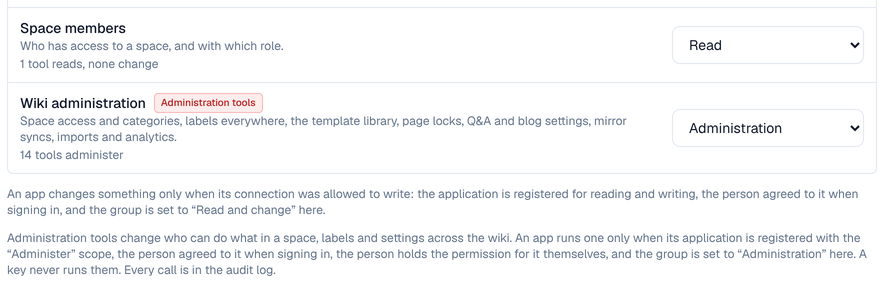
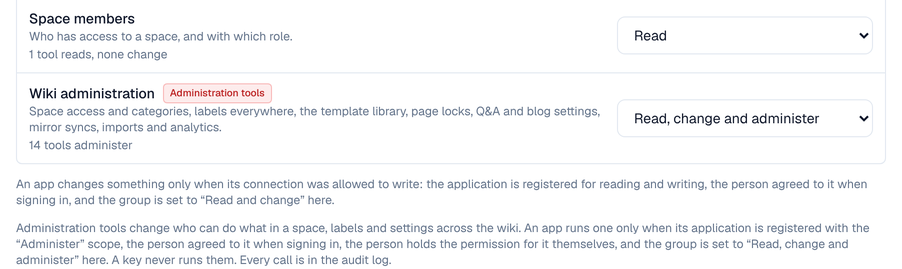
wiki: Kee Search tab screenshot; outside-apps level shot with Read, change and administer
Claude-Session: https://claude.ai/code/session_015HRwaZicr5Z4imXgX9wziz

diff --git a/wiki/admin/kee-outside-apps.html b/wiki/admin/kee-outside-apps.html
@@ -80,16 +80,16 @@
       <ul class="text-muted mb-4 space-y-2 list-disc pl-6"><li>The licence is <strong class="text-text">Enterprise</strong>. Below it, the level isn't offered and the tab says so.</li><li>An administrator set the <strong class="text-text">Wiki administration</strong> group to <strong class="text-text">Read, change and administer</strong> on this tab and confirmed that choice in its own dialog.</li><li>The AI app's application is registered with the <strong class="text-text">Administer</strong> scope, and the person agreed to it when signing in. The sign-in screen lists it apart, under a warning.</li><li>The connection signed in through the browser. A key never runs these tools, whatever it may do otherwise.</li><li>The person holds the permission for that change themselves (a space admin for a space's access, a Q&amp;A moderator for tags, and so on). An app can never do more than the person could do by hand.</li></ul>
       <ol class="text-muted mb-4 space-y-3 list-decimal pl-6 marker:text-cta marker:font-semibold"><li class="pl-2"><span class="text-text font-medium">Open <strong class="text-text">Settings → Kee</strong> and the <strong class="text-text">Outside AI apps</strong> tab.</span></li><li class="pl-2"><span class="text-text font-medium">Under <strong class="text-text">What apps may do</strong>, find <strong class="text-text">Wiki administration</strong> (marked <strong class="text-text">Administration tools</strong>) and set it to <strong class="text-text">Read, change and administer</strong>.</span></li><li class="pl-2"><span class="text-text font-medium">Read the dialog <strong class="text-text">Allow administration tools?</strong> and select <strong class="text-text">Allow administration</strong>. <strong class="text-text">Cancel</strong> leaves it off.</span></li><li class="pl-2"><span class="text-text font-medium">Register the AI app under <strong class="text-text">Settings → Access management → Applications</strong> with the <strong class="text-text">Administer</strong> scope (see <a href="#register-an-ai-app" class="text-cta hover:underline">Register an AI app</a>). People who sign in to it are asked to agree.</span></li></ol>
       <figure class="shot mb-6">
-        <img src="../assets/kee-outside-apps-admin-level.png" alt="What apps may do: Space members set to Read, and Wiki administration with its Administration tools badge set to Administration, with the note on what an app needs" loading="lazy"
+        <img src="../assets/kee-outside-apps-admin-level.png" alt="What apps may do: Space members set to Read, and Wiki administration with its Administration tools badge set to Read, change and administer, with the note on what an app needs" loading="lazy"
              class="rounded-lg border border-border"
              onerror="this.style.display='none';this.nextElementSibling.style.display='flex'">
         <div style="display:none" class="flex-col items-center justify-center text-center gap-2 rounded-lg border-2 border-dashed border-border bg-surface/50 px-6 py-10">
           <svg class="w-7 h-7 text-muted" fill="none" viewBox="0 0 24 24" stroke="currentColor" stroke-width="1.5"><rect x="3" y="3" width="18" height="18" rx="2"/><circle cx="8.5" cy="8.5" r="1.5"/><path d="m21 15-5-5L5 21"/></svg>
           <p class="text-sm text-muted">Screenshot needed</p>
           <p class="font-mono text-xs text-cta break-all">kee-outside-apps-admin-level.png</p>
-          <p class="text-xs text-muted max-w-md">What apps may do: Space members set to Read, and Wiki administration with its Administration tools badge set to Administration, with the note on what an app needs</p>
+          <p class="text-xs text-muted max-w-md">What apps may do: Space members set to Read, and Wiki administration with its Administration tools badge set to Read, change and administer, with the note on what an app needs</p>
         </div>
-        <figcaption class="text-xs text-muted mt-2">What apps may do: Space members set to Read, and Wiki administration with its Administration tools badge set to Administration, with the note on what an app needs</figcaption>
+        <figcaption class="text-xs text-muted mt-2">What apps may do: Space members set to Read, and Wiki administration with its Administration tools badge set to Read, change and administer, with the note on what an app needs</figcaption>
       </figure>
       <figure class="shot mb-6">
         <img src="../assets/kee-outside-apps-admin-confirm.png" alt="Allow administration tools?: the 14 tools, the warning that an app can then make these changes at once under the person&#x27;s name, and Allow administration" loading="lazy"

diff --git a/wiki/admin/kee-search.html b/wiki/admin/kee-search.html
@@ -43,16 +43,16 @@
       <h2 id="where-it-is" class="text-2xl font-semibold mt-10 mb-4 scroll-mt-28">1. Where it is</h2>
       <p class="text-muted mb-4"><strong class="text-text">Settings → Kee → Search</strong> (<strong class="text-text">Manage Kee settings</strong>, Pro). The tab shows the index of page text and, where the database offers it, search by meaning. It reads its numbers when you open it and on <strong class="text-text">Refresh</strong>; it doesn't update by itself.</p>
       <figure class="shot mb-6">
-        <img src="../assets/kee-settings-search.png" alt="Settings → Kee → Search: the index of page text with pages indexed, and search by meaning with its switch, the embeddings model, pages with vectors, tokens and estimated cost" loading="lazy"
+        <img src="../assets/kee-settings-search.png" alt="Settings → Kee → Search on a database server without the vector extension: the index of page text with all pages indexed, and the note that search by meaning needs the extension" loading="lazy"
              class="rounded-lg border border-border"
              onerror="this.style.display='none';this.nextElementSibling.style.display='flex'">
         <div style="display:none" class="flex-col items-center justify-center text-center gap-2 rounded-lg border-2 border-dashed border-border bg-surface/50 px-6 py-10">
           <svg class="w-7 h-7 text-muted" fill="none" viewBox="0 0 24 24" stroke="currentColor" stroke-width="1.5"><rect x="3" y="3" width="18" height="18" rx="2"/><circle cx="8.5" cy="8.5" r="1.5"/><path d="m21 15-5-5L5 21"/></svg>
           <p class="text-sm text-muted">Screenshot needed</p>
           <p class="font-mono text-xs text-cta break-all">kee-settings-search.png</p>
-          <p class="text-xs text-muted max-w-md">Settings → Kee → Search: the index of page text with pages indexed, and search by meaning with its switch, the embeddings model, pages with vectors, tokens and estimated cost</p>
+          <p class="text-xs text-muted max-w-md">Settings → Kee → Search on a database server without the vector extension: the index of page text with all pages indexed, and the note that search by meaning needs the extension</p>
         </div>
-        <figcaption class="text-xs text-muted mt-2">Settings → Kee → Search: the index of page text with pages indexed, and search by meaning with its switch, the embeddings model, pages with vectors, tokens and estimated cost</figcaption>
+        <figcaption class="text-xs text-muted mt-2">Settings → Kee → Search on a database server without the vector extension: the index of page text with all pages indexed, and the note that search by meaning needs the extension</figcaption>
       </figure>
       <h2 id="the-index-of-page-text" class="text-2xl font-semibold mt-10 mb-4 scroll-mt-28">2. The index of page text</h2>
       <ul class="text-muted mb-4 space-y-2 list-disc pl-6"><li>It holds the text of the newest published version of every page, as Kee reads it (up to about 200,000 characters a page). Drafts and earlier versions aren't in it.</li><li>It follows every change within about a minute, on every server. After an upgrade, the first pass fills it in the background: <strong class="text-text">Pages indexed</strong> shows how far it is. A page not indexed yet is still found by its title.</li><li>It is used by the search box (results <strong class="text-text">In page text</strong>, see <a href="../docs/search.html" class="text-cta hover:underline">Search</a>) and by Ask Kee, agents and outside AI apps (<span class="font-mono text-sm break-words">search_pages</span>).</li><li>Every search is filtered by the person's access before anything is ranked: spaces they can see, published pages, page locks.</li><li>It needs nothing from you and no extension.</li></ul>

diff --git a/wiki/_build/content_kee_r2.py b/wiki/_build/content_kee_r2.py
@@ -247,7 +247,7 @@ KEE_R2_ADMIN = [
                 "Read the dialog **Allow administration tools?** and select **Allow administration**. **Cancel** leaves it off.",
                 "Register the AI app under **Settings → Access management → Applications** with the **Administer** scope (see [Register an AI app](#register-an-ai-app)). People who sign in to it are asked to agree.",
             ], howto="allow-ai-apps-to-administer-the-wiki", task="Let outside AI apps use the Wiki administration tools"),
-            SHOT("kee-outside-apps-admin-level.png", "What apps may do: Space members set to Read, and Wiki administration with its Administration tools badge set to Administration, with the note on what an app needs"),
+            SHOT("kee-outside-apps-admin-level.png", "What apps may do: Space members set to Read, and Wiki administration with its Administration tools badge set to Read, change and administer, with the note on what an app needs"),
             SHOT("kee-outside-apps-admin-confirm.png", "Allow administration tools?: the 14 tools, the warning that an app can then make these changes at once under the person's name, and Allow administration"),
             SHOT("kee-outside-apps-admin-consent.png", "The sign-in screen of an AI app that asks to read, change and administer the Wiki, with the administer scope listed under the warning"),
             UL([

diff --git a/wiki/_build/content_kee_r3.py b/wiki/_build/content_kee_r3.py
@@ -294,7 +294,7 @@ KEE_R3_ADMIN = [
             P("Every search of page text, by people in the search box and by Kee, uses an index of what published pages say. It is built and kept current on its own. On top of it, **search by meaning** lets Kee also find passages that say the same thing in other words. It is optional and needs a database extension and an embeddings model."),
             H("Where it is"),
             P("**Settings → Kee → Search** (**Manage Kee settings**, Pro). The tab shows the index of page text and, where the database offers it, search by meaning. It reads its numbers when you open it and on **Refresh**; it doesn't update by itself."),
-            SHOT("kee-settings-search.png", "Settings → Kee → Search: the index of page text with pages indexed, and search by meaning with its switch, the embeddings model, pages with vectors, tokens and estimated cost"),
+            SHOT("kee-settings-search.png", "Settings → Kee → Search on a database server without the vector extension: the index of page text with all pages indexed, and the note that search by meaning needs the extension"),
             H("The index of page text"),
             UL([
                 "It holds the text of the newest published version of every page, as Kee reads it (up to about 200,000 characters a page). Drafts and earlier versions aren't in it.",

diff --git a/wiki/SCREENSHOTS.md b/wiki/SCREENSHOTS.md
@@ -597,7 +597,7 @@ realistic but fictional names and figures rather than real people's data.
 - [ ] `kee-outside-apps-toolsets.png`
       What apps may do: Core set to Read and change, Tool search always on, Product docs and Versions set to Read
 - [ ] `kee-outside-apps-admin-level.png`
-      What apps may do: Space members set to Read, and Wiki administration with its Administration tools badge set to Administration, with the note on what an app needs
+      What apps may do: Space members set to Read, and Wiki administration with its Administration tools badge set to Read, change and administer, with the note on what an app needs
 - [ ] `kee-outside-apps-admin-confirm.png`
       Allow administration tools?: the 14 tools, the warning that an app can then make these changes at once under the person's name, and Allow administration
 - [ ] `kee-outside-apps-admin-consent.png`
@@ -610,7 +610,7 @@ realistic but fictional names and figures rather than real people's data.
 ## Search & search by meaning
 
 - [ ] `kee-settings-search.png`
-      Settings → Kee → Search: the index of page text with pages indexed, and search by meaning with its switch, the embeddings model, pages with vectors, tokens and estimated cost
+      Settings → Kee → Search on a database server without the vector extension: the index of page text with all pages indexed, and the note that search by meaning needs the extension
 
 ## Users &amp; directories
 
